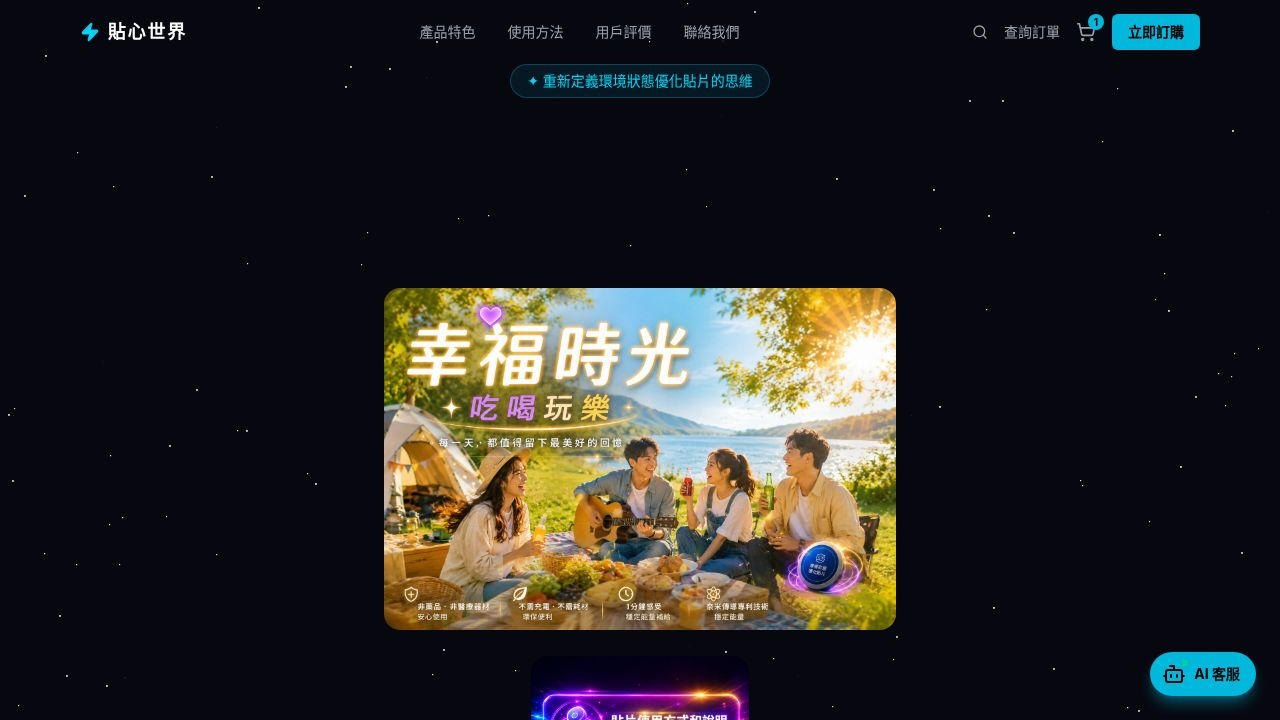
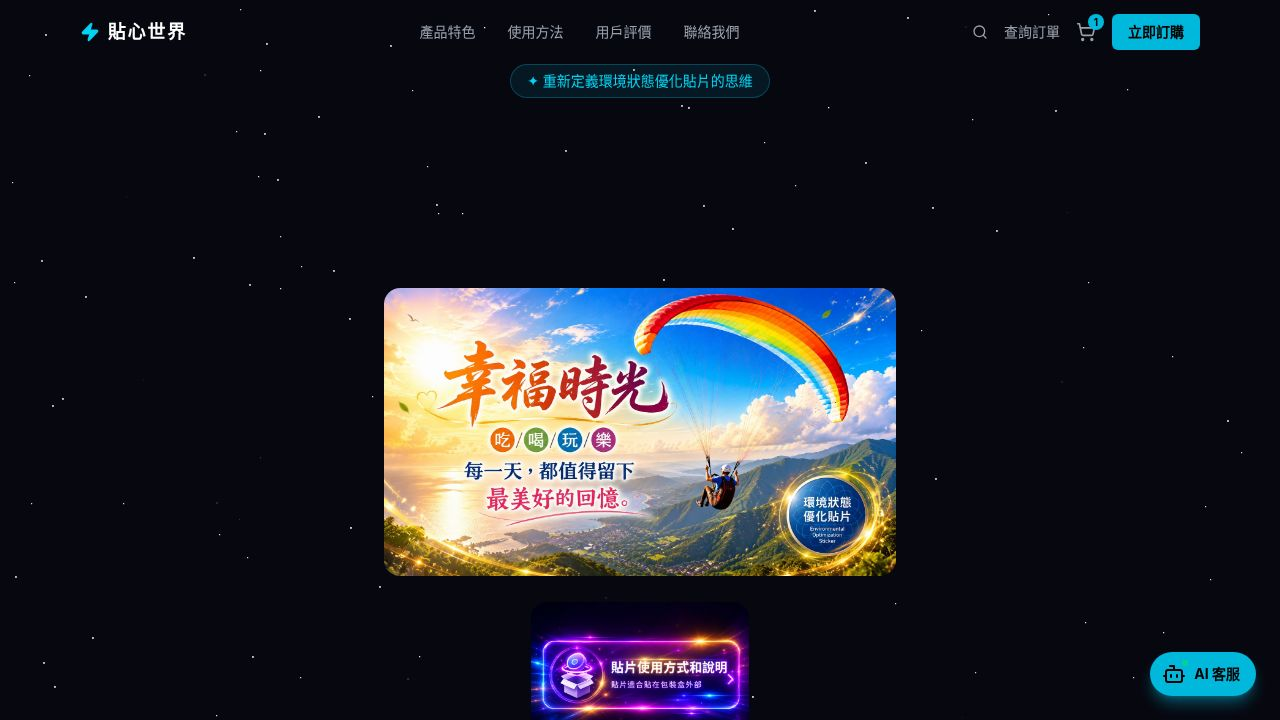
Automatically include images in website builds
Modify Vite configuration to make environment variables optional during build, ensuring images are automatically copied to the distribution directory and updating the build script to set a default base path.

Replit-Commit-Author: Agent
Replit-Commit-Session-Id: 2324aaef-f187-49db-911e-be7f93b364ea
Replit-Commit-Checkpoint-Type: full_checkpoint
Replit-Commit-Event-Id: f3a30a61-5f8e-4d83-9f52-7c8a27f1dcb8
Replit-Commit-Screenshot-Url: https://storage.googleapis.com/screenshot-production-us-central1/9fbe22f6-123c-4dcb-8b45-56e439503d7c/2324aaef-f187-49db-911e-be7f93b364ea/Ng6qZN2
Replit-Helium-Checkpoint-Created: true

Changed region(s): [[0.2812, 0.3972, 0.7188, 1.0]]

diff --git a/artifacts/tixinshijie/vite.config.ts b/artifacts/tixinshijie/vite.config.ts
@@ -5,26 +5,9 @@ import path from "path";
 import runtimeErrorOverlay from "@replit/vite-plugin-runtime-error-modal";
 
 const rawPort = process.env.PORT;
+const port = rawPort ? Number(rawPort) : 3000;
 
-if (!rawPort) {
-  throw new Error(
-    "PORT environment variable is required but was not provided.",
-  );
-}
-
-const port = Number(rawPort);
-
-if (Number.isNaN(port) || port <= 0) {
-  throw new Error(`Invalid PORT value: "${rawPort}"`);
-}
-
-const basePath = process.env.BASE_PATH;
-
-if (!basePath) {
-  throw new Error(
-    "BASE_PATH environment variable is required but was not provided.",
-  );
-}
+const basePath = process.env.BASE_PATH ?? "/";
 
 export default defineConfig({
   base: basePath,